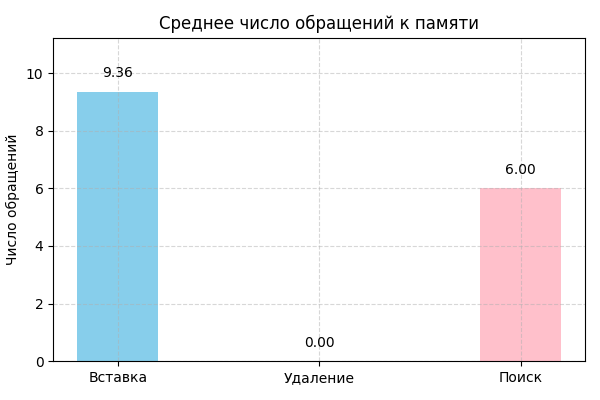
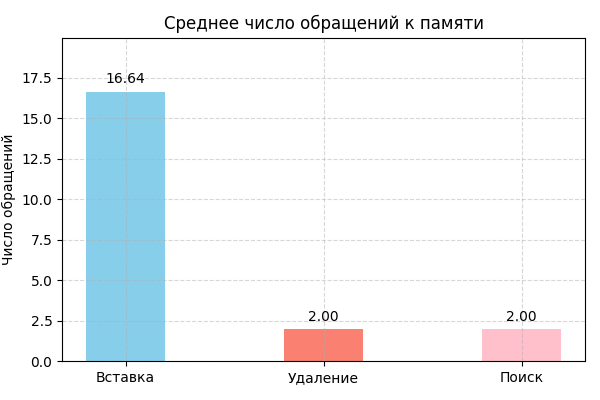
Красивые графики для Отелло и Кукушки

diff --git a/my_code/cuckoo.py b/my_code/cuckoo.py
@@ -1,6 +1,6 @@
 import hashlib
 import random, json
-from common import get_keys, generate_kv, Info
+from common import get_keys, generate_kv, Info, test_info, draw
 import time
 
 hash_functions = [hashlib.sha1, hashlib.sha224, hashlib.sha256,
@@ -196,7 +196,7 @@ class HashTab():
 
 
 def test():
-    size = 20
+    size = 40
     missing = 0
     found = 0 
 
@@ -205,7 +205,7 @@ def test():
 
     keys, values = get_keys(json_dict)
     # create a hash table with an initially small number of bukets
-    cuko = HashTab(100)
+    cuko = HashTab(110)
     inserted = 0
     find_after = 0
 
@@ -246,13 +246,6 @@ def test():
         delete_mem_cnt.append(info_del.memory)
         delete_hash_cnt.append(info_del.hash)
 
-    print(f'AVG mem_cnt on insert = {sum(insert_memory_cnt) / len(insert_memory_cnt)}')
-    print(f'AVG hash_cnt on insert = {sum(insert_hash_cnt) / len(insert_hash_cnt)}')
-    print(f'AVG TIME on insert = {sum(insert_time) / len(insert_time)}')
-
-    print(f'AVG mem_cnt on delete = {sum(delete_mem_cnt) / len(delete_mem_cnt)}')
-    print(f'AVG hash_cnt on delete = {sum(delete_hash_cnt) / len(delete_hash_cnt)}')
-
 
     """Тестирование среднего числа обращений к памяти и вызовов хеш-функции на операции ПОИСКА"""
     search_memory_cnt = []
@@ -264,8 +257,20 @@ def test():
         search_hash_cnt.append(info.hash)
         if ans == values[i]:
             cnt += 1
-    print(f'AVG mem_cnt on search = {sum(search_memory_cnt) / len(search_memory_cnt)}')
-    print(f'AVG hash_cnt on search = {sum(search_hash_cnt) / len(search_hash_cnt)}')
+
+    avg_insert_mem = sum(insert_memory_cnt) / len(insert_memory_cnt)
+    avg_delete_mem = sum(delete_mem_cnt) / len(delete_mem_cnt)
+    avg_search_mem = sum(search_memory_cnt) / len(search_memory_cnt)
+
+    avg_insert_hash = sum(insert_hash_cnt) / len(insert_hash_cnt)
+    avg_delete_hash = sum(delete_hash_cnt) / len(delete_hash_cnt)
+    avg_search_hash = sum(search_hash_cnt) / len(search_hash_cnt)
+
+    avg_insert_time = sum(insert_time) / len(insert_time)
+
+    test_info(avg_insert_mem, avg_delete_mem, avg_search_mem, avg_insert_hash, avg_delete_hash, avg_search_hash, avg_insert_time)
+    draw(avg_insert_mem, avg_delete_mem, avg_search_mem, avg_insert_hash, avg_delete_hash, avg_search_hash, avg_insert_time, name='cuko')
+
     print(f'Correct is {cnt} of {size}')
 
 

diff --git a/my_code/common.py b/my_code/common.py
@@ -2,7 +2,21 @@ import random
 import matplotlib.pyplot as plt
 
 
-def draw(avg_insert_mem, avg_delete_mem, avg_search_mem, avg_insert_hash, avg_delete_hash, avg_search_hash, avg_insert_time):
+def test_info(avg_insert_mem, avg_delete_mem, avg_search_mem, avg_insert_hash, avg_delete_hash, avg_search_hash, avg_insert_time):
+    print(f'AVG mem_cnt on insert = {avg_insert_mem}')
+    print(f'AVG hash_cnt on insert = {avg_insert_hash}')
+    print(f'AVG TIME on insert = {avg_insert_time}\n')
+
+    print(f'AVG mem_cnt on search = {avg_search_mem}')
+    print(f'AVG hash_cnt on search = {avg_search_hash}\n')
+
+    print(f'AVG mem_cnt on delete = {avg_delete_mem}')
+    print(f'AVG hash_cnt on delete = {avg_delete_hash}\n')
+
+
+
+
+def draw(avg_insert_mem, avg_delete_mem, avg_search_mem, avg_insert_hash, avg_delete_hash, avg_search_hash, avg_insert_time, name):
     # 1. Обращения к памяти
     plt.figure(figsize=(6, 4))
     plt.bar(['Вставка', 'Удаление', 'Поиск'], [avg_insert_mem, avg_delete_mem, avg_search_mem], color=['skyblue', 'salmon', 'pink'], width=0.4)
@@ -14,7 +28,7 @@ def draw(avg_insert_mem, avg_delete_mem, avg_search_mem, avg_insert_hash, avg_de
     plt.tight_layout()
     max_val = max(avg_insert_mem, avg_delete_mem, avg_search_mem)
     plt.ylim(0, max_val * 1.2)
-    plt.savefig('oth_memory.png')
+    plt.savefig(f'{name}_memory.png')
     plt.show()
 
     # 2. Вызовы хеш-функции
@@ -28,7 +42,7 @@ def draw(avg_insert_mem, avg_delete_mem, avg_search_mem, avg_insert_hash, avg_de
     plt.tight_layout()
     max_val = max(avg_insert_hash, avg_delete_hash, avg_search_hash)
     plt.ylim(0, max_val * 1.2)
-    plt.savefig('oth_hash.png')
+    plt.savefig(f'{name}_hash.png')
     plt.show()
 
     # 3. Время вставки
@@ -41,7 +55,7 @@ def draw(avg_insert_mem, avg_delete_mem, avg_search_mem, avg_insert_hash, avg_de
     plt.tight_layout()
     max_val = max([avg_insert_time])
     plt.ylim(0, max_val * 1.2)
-    plt.savefig('oth_time.png')
+    plt.savefig(f'{name}_time.png')
     plt.show()
 
 def get_keys(json_dict):

diff --git a/my_code/ninety_test.py b/my_code/ninety_test.py
@@ -5,7 +5,7 @@ import json
 import pog
 import random
 import time
-from common import get_keys, generate_mac, generate_vlan, generate_kv, draw
+from common import get_keys, generate_mac, generate_vlan, generate_kv, draw, test_info
 import numpy as np
 
 
@@ -70,7 +70,6 @@ for _ in range(100):
     delete_hash_cnt.append(info_del.hash)
 
 
-
 """Тестирование среднего числа обращений к памяти и вызовов хеш-функции на операции ПОИСКА при 90% загрузке"""
 search_memory_cnt = []
 search_hash_cnt = []
@@ -94,18 +93,8 @@ avg_search_hash = sum(search_hash_cnt) / len(search_hash_cnt)
 avg_insert_time = sum(insert_time) / len(insert_time)
 
 
-print(f'AVG mem_cnt on insert = {avg_insert_mem}')
-print(f'AVG hash_cnt on insert = {avg_insert_hash}')
-print(f'AVG TIME on insert = {avg_insert_time}\n')
-
-print(f'AVG mem_cnt on search = {avg_search_mem}')
-print(f'AVG hash_cnt on search = {avg_search_hash}\n')
-
-print(f'AVG mem_cnt on delete = {avg_delete_mem}')
-print(f'AVG hash_cnt on delete = {avg_delete_hash}\n')
-
-
-draw(avg_insert_mem, avg_delete_mem, avg_search_mem, avg_insert_hash, avg_delete_hash, avg_search_hash, avg_insert_time)
+test_info(avg_insert_mem, avg_delete_mem, avg_search_mem, avg_insert_hash, avg_delete_hash, avg_search_hash, avg_insert_time)
+draw(avg_insert_mem, avg_delete_mem, avg_search_mem, avg_insert_hash, avg_delete_hash, avg_search_hash, avg_insert_time, name='oth')
 
 
 
